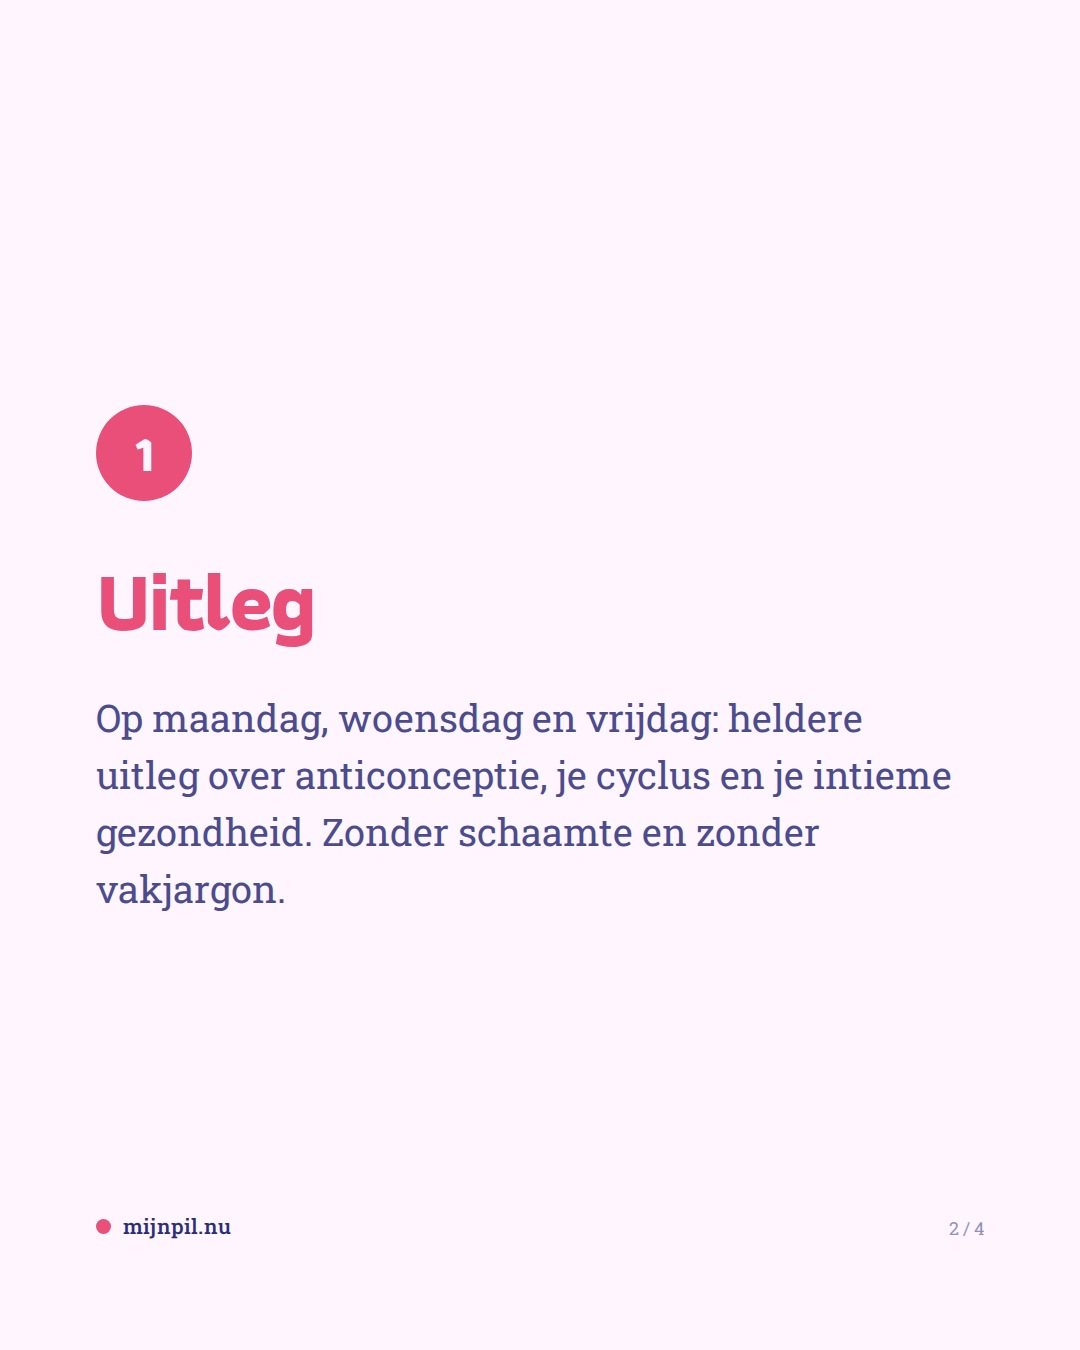
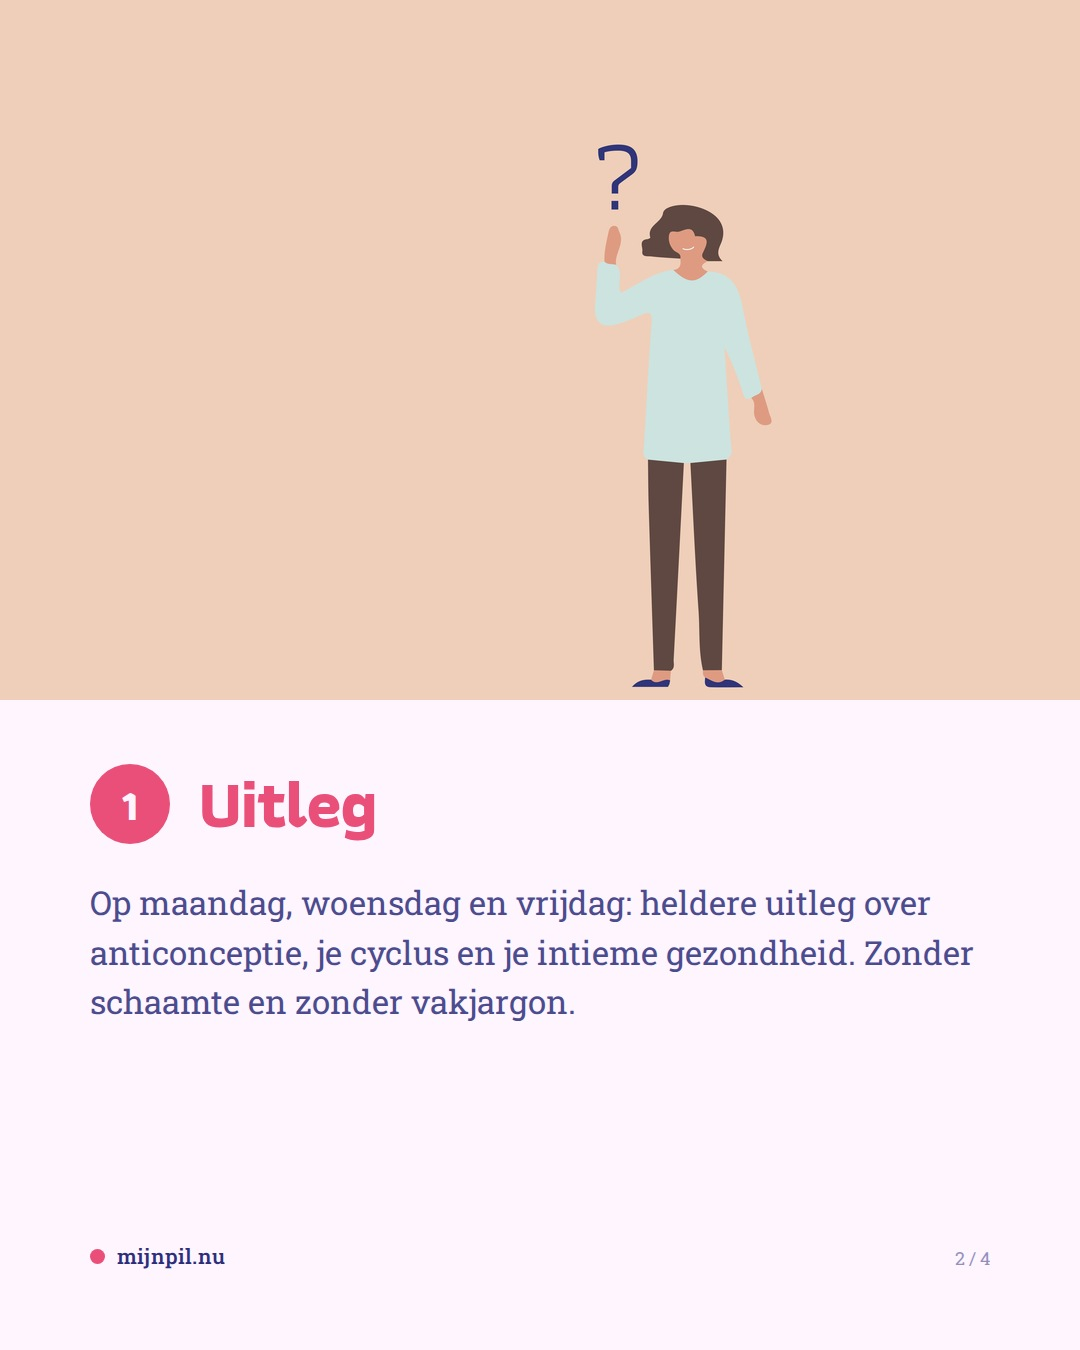
Vastgezette posts met illustraties uit de bibliotheek, lavendel naar huidige kleur (illu.py)

diff --git a/pipeline/inhakers.py b/pipeline/inhakers.py
@@ -87,10 +87,12 @@ VAST = [
    ("1", "<em>Geregistreerd</em>",
     "MijnPil.nu werkt onder de vergunning van Service Apotheek Hardenberg en staat in het "
     "register van online aanbieders van het ministerie van VWS, in de categorie die "
-    "receptgeneesmiddelen mag leveren."),
+    "receptgeneesmiddelen mag leveren.",
+    "201905151830-Mijn-pil-visuals_Apotheek - green.png"),
    ("2", "Elke bestelling <em>gecontroleerd</em>",
     "Een apothekersassistente stelt je bestelling samen. Daarna controleert de apotheker alles "
-    "en tekent af. Pas dan gaat je pakket de deur uit."),
+    "en tekent af. Pas dan gaat je pakket de deur uit.",
+    "201905151830-Mijn-pil-visuals_Verificatie akkoord - orange.png"),
   ],
   "caption": ("Wie zit er eigenlijk achter @mijnpil.nu? Een echte, geregistreerde apotheek. "
    "MijnPil.nu werkt onder de vergunning van Service Apotheek Hardenberg en staat in het register "
@@ -107,13 +109,16 @@ VAST = [
   "slides": [
    ("1", "Je hebt al <em>een recept</em>",
     "Wij schrijven geen anticonceptie voor. Je bestelt wat je al gebruikt, of waarvoor je al "
-    "een recept hebt."),
+    "een recept hebt.",
+    "201905151830-Mijn-pil-visuals_Recept - red.png"),
    ("2", "De eerste keer: <em>een foto</em>",
     "Bij je eerste bestelling upload je een foto van je recept, of van een doosje met "
-    "apotheeketiket. De apotheker controleert dat."),
+    "apotheeketiket. De apotheker controleert dat.",
+    "201905151830-Mijn-pil-visuals_Verification foto 1 - purple.png"),
    ("3", "Daarna: gewoon <em>nabestellen</em>",
     "Bij een volgende bestelling hoef je niets opnieuw aan te leveren. Liever niet zelf "
-    "opletten? Laat je bestelling dan automatisch herhalen."),
+    "opletten? Laat je bestelling dan automatisch herhalen.",
+    "201905151830-Mijn-pil-visuals_Verification foto 2 - green.png"),
   ],
   "caption": ("Hoe werkt bestellen bij MijnPil.nu? In het kort: je bestelt de anticonceptie die je "
    "al gebruikt, en wij bezorgen het.\n\n"
@@ -130,12 +135,15 @@ VAST = [
   "slides": [
    ("1", "<em>Uitleg</em>",
     "Op maandag, woensdag en vrijdag: heldere uitleg over anticonceptie, je cyclus en je "
-    "intieme gezondheid. Zonder schaamte en zonder vakjargon."),
+    "intieme gezondheid. Zonder schaamte en zonder vakjargon.",
+    "Vraag-vrouw.png"),
    ("2", "<em>Onder ons</em>",
     "Op dinsdag, donderdag en zaterdag: de dingen die iedere vrouw herkent. Om door te sturen "
-    "naar wie het ook overkomt."),
+    "naar wie het ook overkomt.",
+    "Blije-vrouwen.png"),
    ("3", "#vrouwen<em>onderelkaar</em>",
-    "Post je zelf iets herkenbaars? Gebruik de hashtag. De leukste delen we in onze stories."),
+    "Post je zelf iets herkenbaars? Gebruik de hashtag. De leukste delen we in onze stories.",
+    "Vriendschap verschillende vrouwen.png"),
   ],
   "caption": ("Nieuw hier? Welkom. Op dit account vind je twee soorten posts: uitleg over "
    "anticonceptie en je cyclus waar je echt iets aan hebt, en posts voor als je denkt: dit ben ik. "

diff --git a/pipeline/concepts.py b/pipeline/concepts.py
@@ -830,3 +830,48 @@ def vast_slide(num, title, body, n="", field="#fef5ff", w=1080, h=1350):
       <div class='mid'><div class='num'>{num}</div><div class='t'>{title}</div>
         <div class='b'>{body}</div></div>
       <div class='foot'>{MARK}<div class='note'>{n}</div></div></div>""", css, w, h)
+
+
+def vast_slide_beeld(num, title, body, img, n="", w=1080, h=1350, band=700):
+    """Binnenslide van een vastgezette post met een illustratie als band bovenin.
+    img: pad naar een beeld van w x band uit illu.in_vak."""
+    css = f"""
+    .band{{position:absolute;left:0;top:0;width:{w}px;height:{band}px}}
+    body{{background:#fef5ff}}
+    .stage{{color:#2c2e7b;padding:{band + 64}px 90px 80px}}
+    .row{{display:flex;align-items:center;gap:28px}}
+    .num{{width:80px;height:80px;border-radius:50%;background:#ea4f79;color:#fef5ff;
+        font-family:'Athiti';font-weight:700;font-size:44px;display:flex;align-items:center;
+        justify-content:center;flex:0 0 auto}}
+    .t{{font-family:'Athiti';font-weight:600;font-size:68px;line-height:1.05;letter-spacing:-.03em}}
+    .t em{{font-style:normal;color:#ea4f79;font-weight:700}}
+    .b{{margin-top:34px;font-size:33px;line-height:1.5;max-width:900px;opacity:.85}}
+    .mid{{justify-content:flex-start}}
+    """
+    return page(f"""<img class='band' src='file://{img}'><div class='stage'>
+      <div class='mid'><div class='row'><div class='num'>{num}</div><div class='t'>{title}</div></div>
+        <div class='b'>{body}</div></div>
+      <div class='foot'>{MARK}<div class='note'>{n}</div></div></div>""", css, w, h)
+
+
+def beeld_titel(img, kicker, lines, w=1080, h=1350, top=0, band=820, pad=84, note=""):
+    """Illustratie als omslag: beeld boven, titel eronder op een licht vlak.
+    Voor slide 1 van een carrousel (4:5) en als reelomslag (9:16, dan top en
+    band zo kiezen dat alles binnen de 3:4-uitsnede van het raster valt)."""
+    css = f"""
+    body{{background:#fef5ff}}
+    .band{{position:absolute;left:0;top:{top}px;width:{w}px;height:{band}px}}
+    .txt{{position:absolute;left:{pad}px;right:{pad}px;top:{top + band + 56}px;color:#2c2e7b}}
+    .k{{font-family:'RobotoSlab';font-weight:500;font-size:20px;letter-spacing:.2em;
+        text-transform:uppercase;color:#ea4f79}}
+    .q{{margin-top:18px;font-family:'Athiti';font-weight:600;font-size:84px;line-height:1.04;
+        letter-spacing:-.03em}}
+    .q span{{display:block}}
+    .q em{{font-style:normal;color:#ea4f79;font-weight:700}}
+    .ft{{position:absolute;left:{pad}px;right:{pad}px;bottom:{(h - top - band) if top else 0}px}}
+    """
+    foot = "" if top else f"""<div class='foot' style='position:absolute;left:{pad}px;right:{pad}px;bottom:64px'>{MARK}<div class='note'>{note}</div></div>"""
+    return page(f"""<img class='band' src='file://{img}'>
+      <div class='txt'><div class='k'>{kicker}</div>
+      <div class='q'>{''.join(f'<span>{x}</span>' for x in lines)}</div></div>{foot}""",
+                css, w, h)

diff --git a/pipeline/illu.py b/pipeline/illu.py
@@ -1,0 +1,53 @@
+# -*- coding: utf-8 -*-
+"""Bibliotheekillustraties klaarmaken voor social.
+
+- lavendel uit 2019 (#807fbc, schaduw #7372a9) naar het huidige lavendel
+  (#9e9dce), met een zachte overgang zodat de randen niet rafelen
+- een beeld in een vak van elke maat zetten door het egale achtergrondvlak door
+  te trekken, nooit door het onderwerp bij te snijden
+"""
+import pathlib
+import numpy as np
+from PIL import Image
+
+LIB = (pathlib.Path(__file__).parent.parent / "library" / "illustraties").resolve()
+CACHE = (pathlib.Path(__file__).parent / "html" / "illu").resolve()
+OUD = [np.array([0x80, 0x7f, 0xbc]), np.array([0x73, 0x72, 0xa9])]
+NIEUW = np.array([0x9e, 0x9d, 0xce])
+
+
+def herkleur(im):
+    a = np.asarray(im.convert("RGB")).astype(float)
+    delta = NIEUW - OUD[0]
+    w = np.zeros(a.shape[:2])
+    for ref in OUD:
+        d = np.sqrt(((a - ref) ** 2).sum(-1))
+        w = np.maximum(w, np.clip(1 - d / 45, 0, 1))
+    a = a + w[..., None] * delta
+    return Image.fromarray(np.clip(a, 0, 255).astype("uint8"))
+
+
+def in_vak(naam, w, h, schaal=1.0, anker=1.0):
+    """Beeld passend in w x h, achtergrond doorgetrokken. anker: verticale
+    positie van het beeld in het vak (0 boven, 1 onder)."""
+    src = Image.open(LIB / naam).convert("RGBA")
+    wit = Image.new("RGBA", src.size, (255, 255, 255, 255))
+    wit.alpha_composite(src)
+    im = herkleur(wit)
+    # witte of transparante marges eraf, dan is de meest voorkomende kleur het vlak
+    a = np.asarray(im).astype(int)
+    alfa = np.asarray(src)[..., 3].astype(int)
+    vol = (alfa > 250) & (a < 250).any(-1)
+    kol = np.where(vol.mean(0) > 0.5)[0]
+    rij = np.where(vol.mean(1) > 0.5)[0]
+    im = im.crop((kol.min() + 4, rij.min() + 4, kol.max() - 3, rij.max() - 3))
+    kl, n = np.unique(np.asarray(im.resize((200, 200))).reshape(-1, 3), axis=0, return_counts=True)
+    bg = tuple(int(x) for x in kl[n.argmax()])
+    f = min(w / im.width, h / im.height) * schaal
+    im = im.resize((round(im.width * f), round(im.height * f)), Image.LANCZOS)
+    vak = Image.new("RGB", (w, h), bg)
+    vak.paste(im, ((w - im.width) // 2, round((h - im.height) * anker)))
+    CACHE.mkdir(parents=True, exist_ok=True)
+    out = CACHE / f"{pathlib.Path(naam).stem}_{w}x{h}.png".replace(" ", "_")
+    vak.save(out)
+    return out, "#%02x%02x%02x" % bg

diff --git a/pipeline/produce.py b/pipeline/produce.py
@@ -9,6 +9,7 @@ also the filename that ends up in the media repository.
 import json, sys, pathlib, shutil
 from playwright.sync_api import sync_playwright
 import concepts as C
+import illu
 from anim import render_clip, encode, HTML, OUT, FPS
 
 HERE = pathlib.Path(__file__).parent
@@ -140,9 +141,14 @@ def build(browser, p):
     if concept == "vast":
         n = 1 + len(p["slides"])
         out = [shot(browser, f"{pid}__1", C.vast_cover(p["kicker"], p["lines"], p["theme"]), FEED)]
-        for k, (num, title, body) in enumerate(p["slides"]):
-            out.append(shot(browser, f"{pid}__{k+2}",
-                            C.vast_slide(num, title, body, f"{k+2} / {n}"), FEED))
+        for k, sl in enumerate(p["slides"]):
+            num, title, body = sl[:3]
+            if len(sl) > 3:
+                img, _ = illu.in_vak(sl[3], FEED[0], 700)
+                html = C.vast_slide_beeld(num, title, body, img, f"{k+2} / {n}")
+            else:
+                html = C.vast_slide(num, title, body, f"{k+2} / {n}")
+            out.append(shot(browser, f"{pid}__{k+2}", html, FEED))
         return out
 
     if concept == "uit_de_dm":
